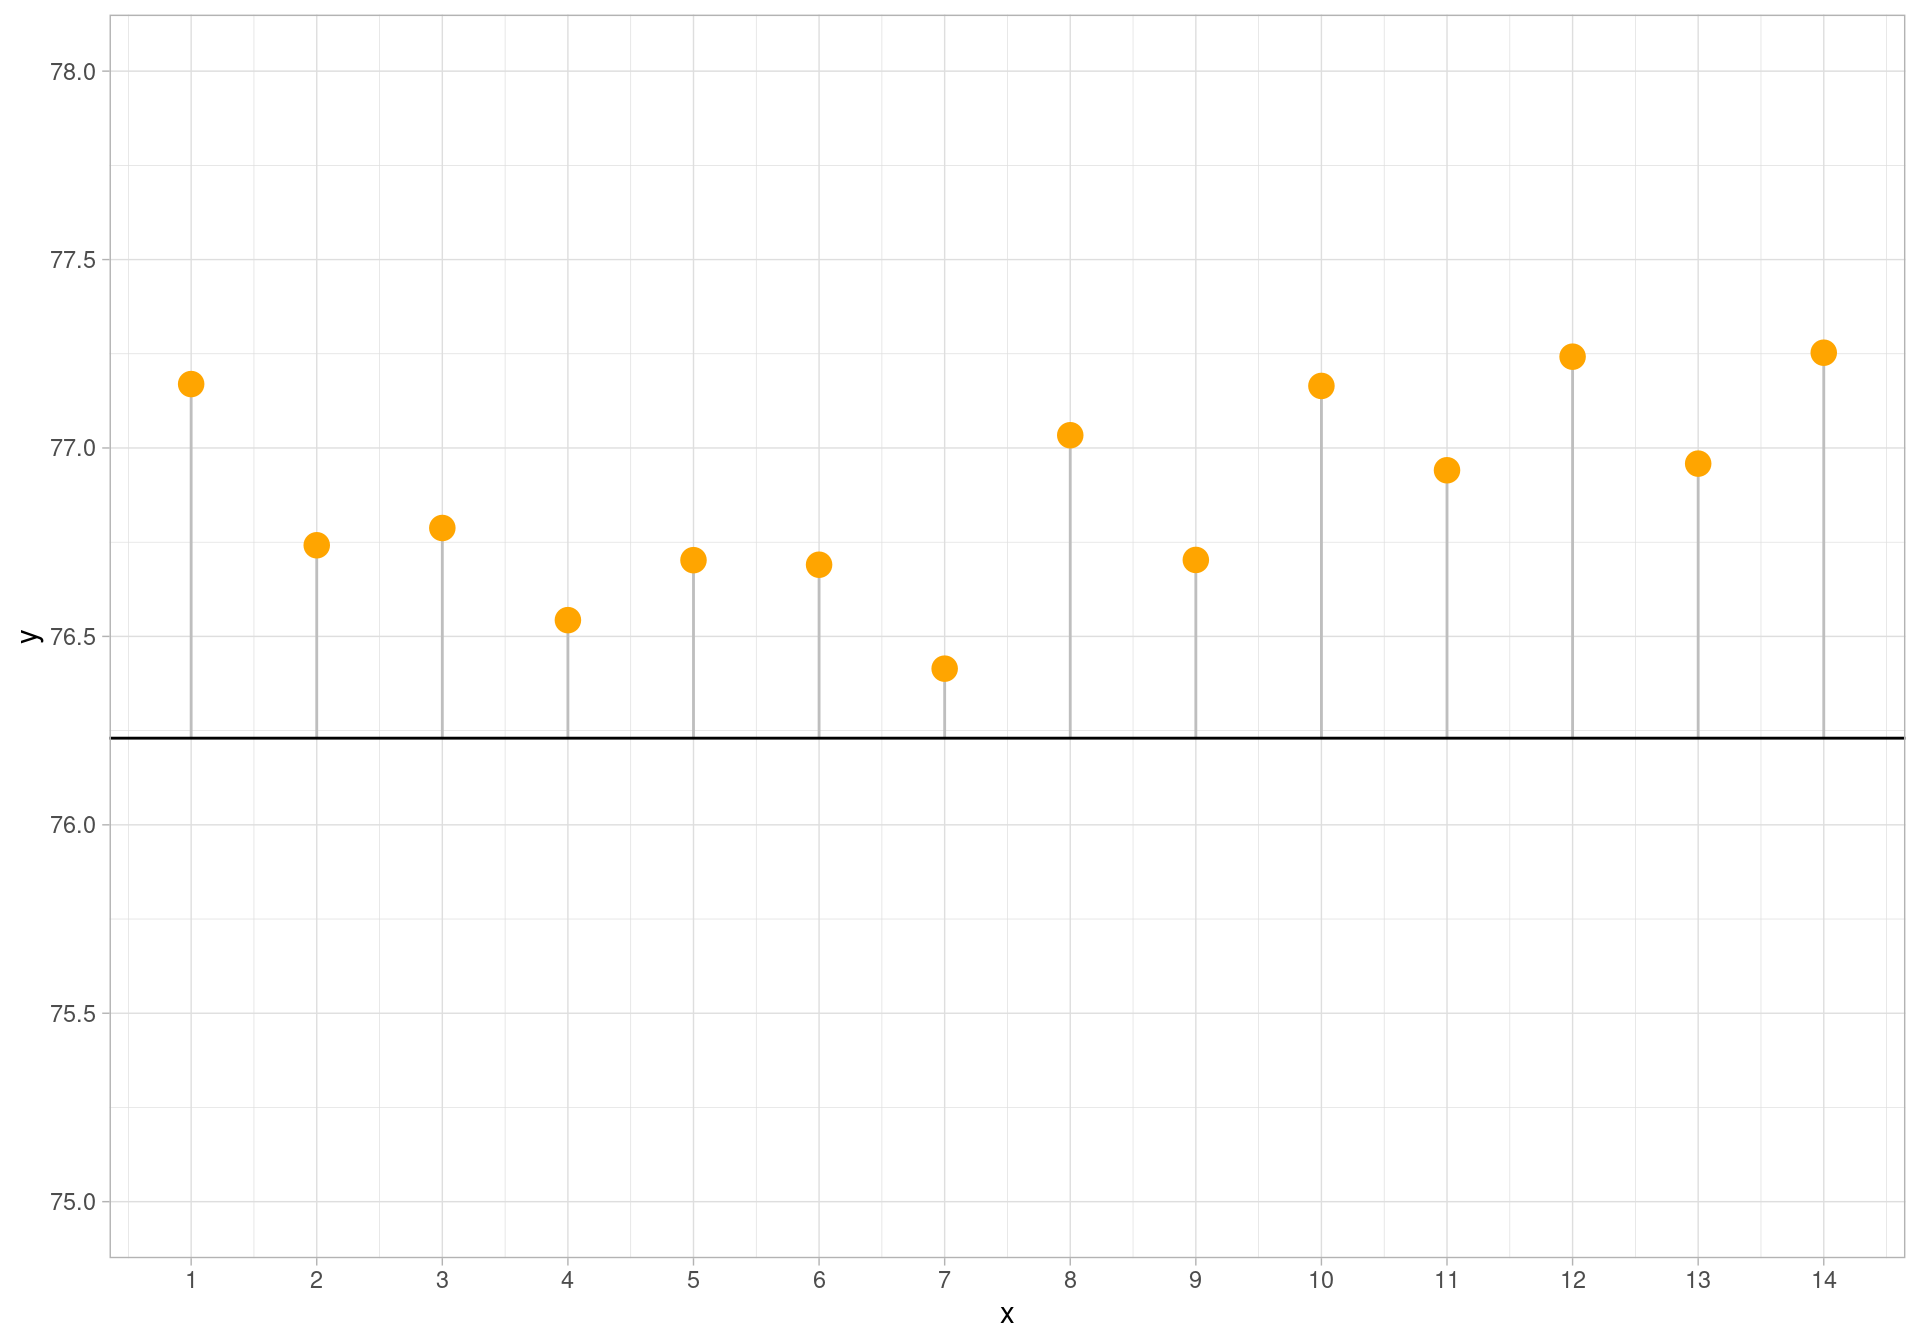
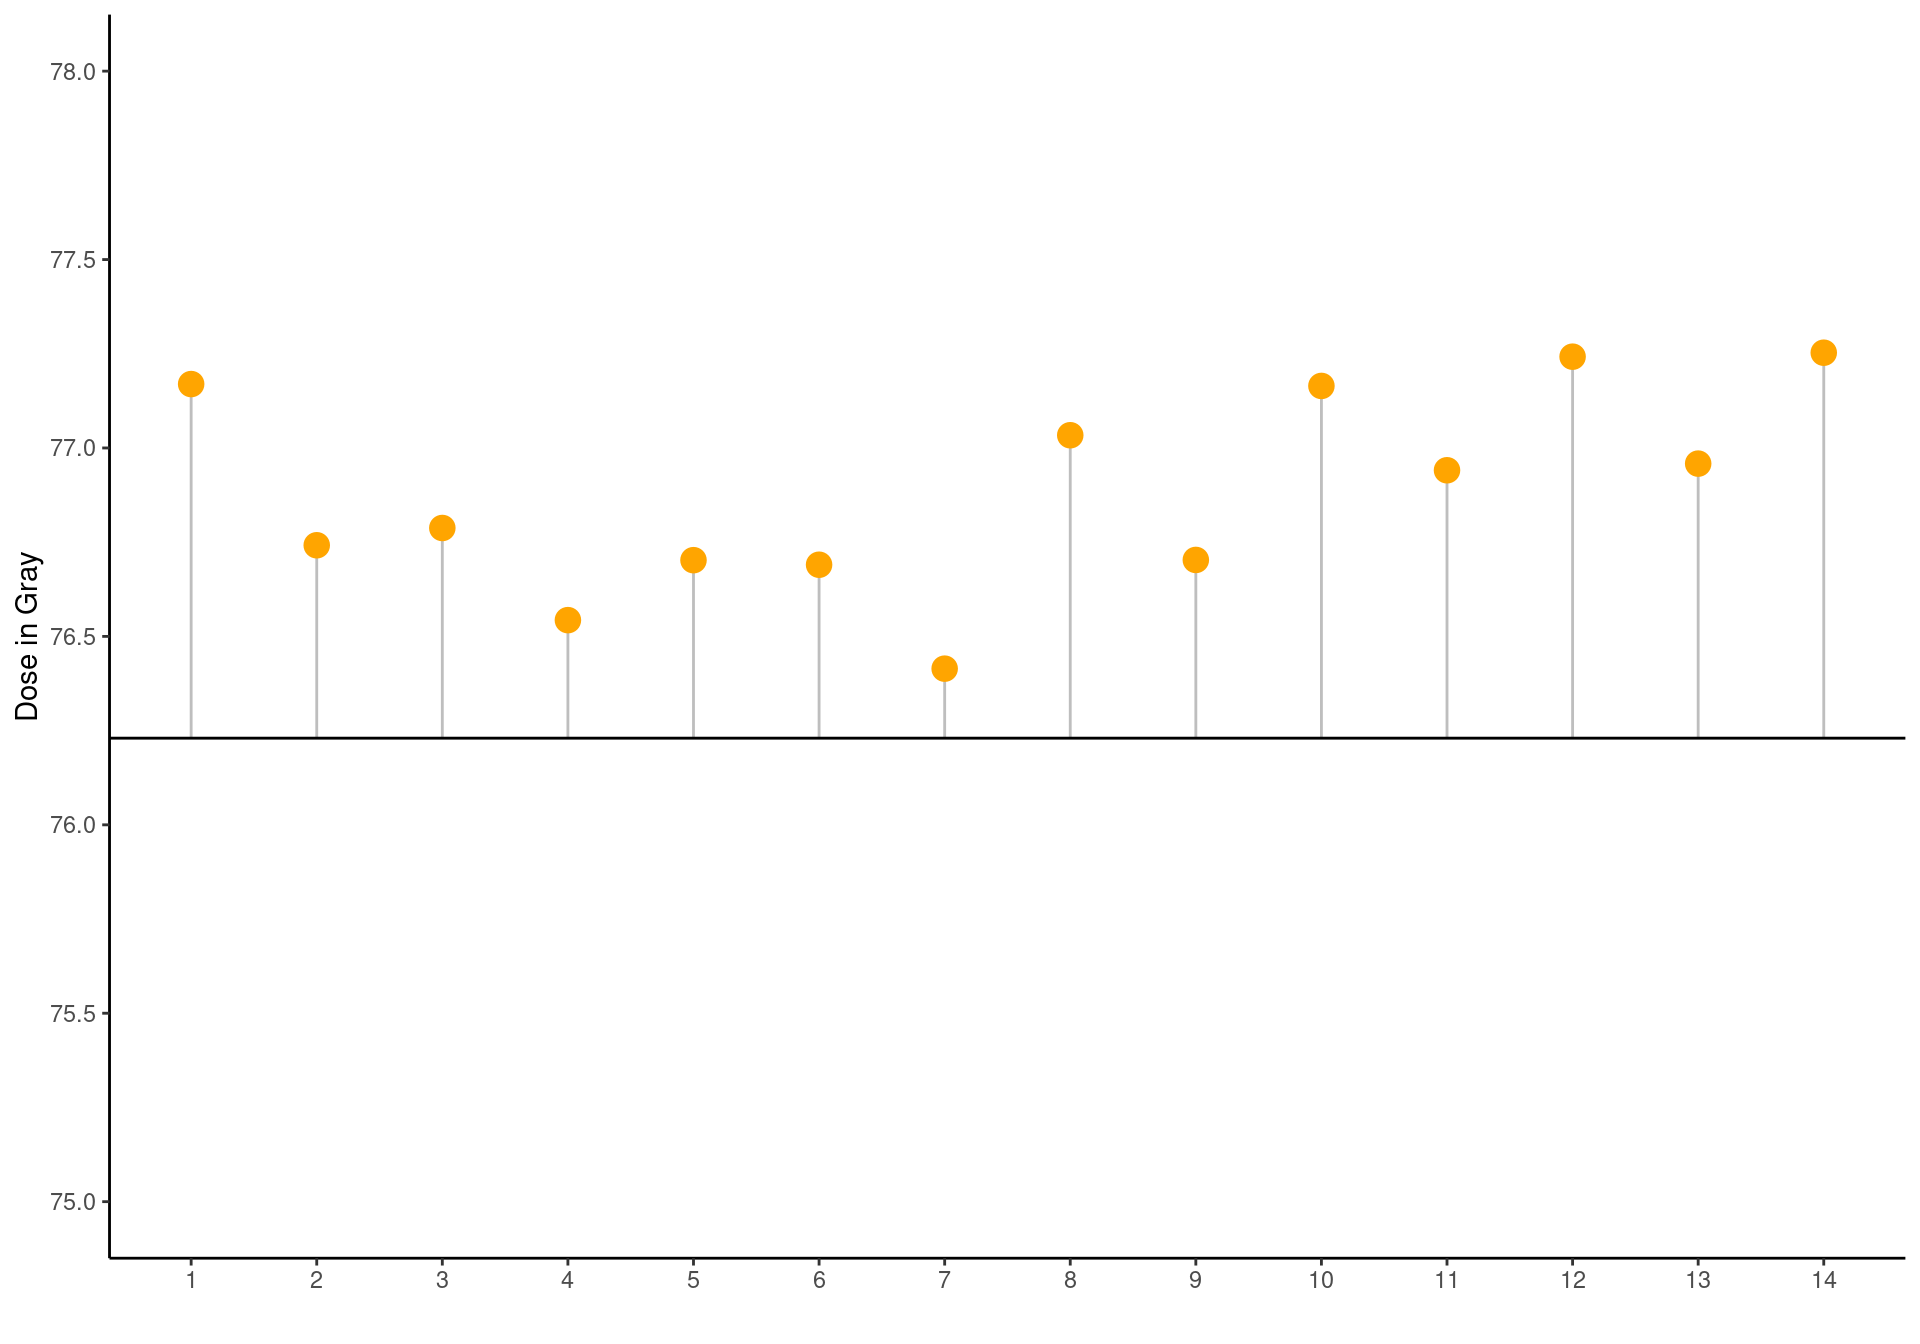
Build site.

diff --git a/docs/first-analysis.html b/docs/first-analysis.html
@@ -503,16 +503,16 @@ This reproducible <a href="http://rmarkdown.rstudio.com">R Markdown</a> analysis
 <div class="panel panel-default">
 <div class="panel-heading">
 <p class="panel-title">
-<a data-toggle="collapse" data-parent="#workflowr-checks" href="#strongRepositoryversionstrongahrefhttpsgithubcomdssrttnTesttree158001746f1d4c2d35d67f25eb344aeacb824317targetblank1580017a"> <span class="glyphicon glyphicon-ok text-success" aria-hidden="true"></span> <strong>Repository version:</strong> <a href="https://github.com/dssrttn/Test/tree/158001746f1d4c2d35d67f25eb344aeacb824317" target="_blank">1580017</a> </a>
+<a data-toggle="collapse" data-parent="#workflowr-checks" href="#strongRepositoryversionstrongahrefhttpsgithubcomdssrttnTesttree318915134ed28267575afc550b12cce07cd3a310targetblank3189151a"> <span class="glyphicon glyphicon-ok text-success" aria-hidden="true"></span> <strong>Repository version:</strong> <a href="https://github.com/dssrttn/Test/tree/318915134ed28267575afc550b12cce07cd3a310" target="_blank">3189151</a> </a>
 </p>
 </div>
[2 lines of base64/hex data omitted]
 <div class="panel-body">
 <p>
 Great! You are using Git for version control. Tracking code development and connecting the code version to the results is critical for reproducibility.
 </p>
 <p>
-The results in this page were generated with repository version <a href="https://github.com/dssrttn/Test/tree/158001746f1d4c2d35d67f25eb344aeacb824317" target="_blank">1580017</a>. See the <em>Past versions</em> tab to see a history of the changes made to the R Markdown and HTML files.
+The results in this page were generated with repository version <a href="https://github.com/dssrttn/Test/tree/318915134ed28267575afc550b12cce07cd3a310" target="_blank">3189151</a>. See the <em>Past versions</em> tab to see a history of the changes made to the R Markdown and HTML files.
 </p>
 <p>
 Note that you need to be careful to ensure that all relevant files for the analysis have been committed to Git prior to generating the results (you can use <code>wflow_publish</code> or <code>wflow_git_commit</code>). workflowr only checks the R Markdown file, but you know if there are other scripts or data files that it depends on. Below is the status of the Git repository when the results were generated:
@@ -565,6 +565,40 @@ Message
 </tr>
 </thead>
 <tbody>
+<tr>
+<td>
+Rmd
+</td>
+<td>
+<a href="https://github.com/dssrttn/Test/blob/318915134ed28267575afc550b12cce07cd3a310/analysis/first-analysis.Rmd" target="_blank">3189151</a>
+</td>
+<td>
+Mein Vorname
+</td>
+<td>
+2020-06-23
+</td>
+<td>
+Lollipop-Blot mit ggplot. Entfernung der grid lines und background color
+</td>
+</tr>
+<tr>
+<td>
+html
+</td>
+<td>
+<a href="https://rawcdn.githack.com/dssrttn/Test/e7f228ee1256fba2336f9a4017e0c22ad6650d65/docs/first-analysis.html" target="_blank">e7f228e</a>
+</td>
+<td>
+Mein Vorname
+</td>
+<td>
+2020-06-23
+</td>
+<td>
+Build site.
+</td>
+</tr>
 <tr>
 <td>
 Rmd
@@ -1502,18 +1536,43 @@ Mein Vorname
 <pre class="r"><code>#cex.lab=1.5, cex.axis=1.5</code></pre>
 <p>Lorem ipsum</p>
 <p><img src="figure/first-analysis.Rmd/unnamed-chunk-6-1.png" width="960" style="display: block; margin: auto;" /></p>
-<pre><code>List of 5
- $ axis.ticks.x      : list()
-  ..- attr(*, &quot;class&quot;)= chr [1:2] &quot;element_blank&quot; &quot;element&quot;
- $ panel.border      : list()
-  ..- attr(*, &quot;class&quot;)= chr [1:2] &quot;element_blank&quot; &quot;element&quot;
- $ panel.grid.major.x: list()
-  ..- attr(*, &quot;class&quot;)= chr [1:2] &quot;element_blank&quot; &quot;element&quot;
- $ x                 : chr &quot;&quot;
- $ y                 : chr &quot;Dose in Gray&quot;
- - attr(*, &quot;class&quot;)= chr [1:2] &quot;theme&quot; &quot;gg&quot;
- - attr(*, &quot;complete&quot;)= logi FALSE
- - attr(*, &quot;validate&quot;)= logi TRUE</code></pre>
+<p>
+<button type="button" class="btn btn-default btn-xs btn-workflowr btn-workflowr-fig" data-toggle="collapse" data-target="#fig-unnamed-chunk-6-1">
+Past versions of unnamed-chunk-6-1.png
+</button>
+</p>
+<div id="fig-unnamed-chunk-6-1" class="collapse">
+<div class="table-responsive">
+<table class="table table-condensed table-hover">
+<thead>
+<tr>
+<th>
+Version
+</th>
+<th>
+Author
+</th>
+<th>
+Date
+</th>
+</tr>
+</thead>
+<tbody>
+<tr>
+<td>
+<a href="https://github.com/dssrttn/Test/blob/e7f228ee1256fba2336f9a4017e0c22ad6650d65/docs/figure/first-analysis.Rmd/unnamed-chunk-6-1.png" target="_blank">e7f228e</a>
+</td>
+<td>
+Mein Vorname
+</td>
+<td>
+2020-06-23
+</td>
+</tr>
+</tbody>
+</table>
+</div>
+</div>
 <br>
 <p>
 <button type="button" class="btn btn-default btn-workflowr btn-workflowr-sessioninfo" data-toggle="collapse" data-target="#workflowr-sessioninfo" style="display: block;">
